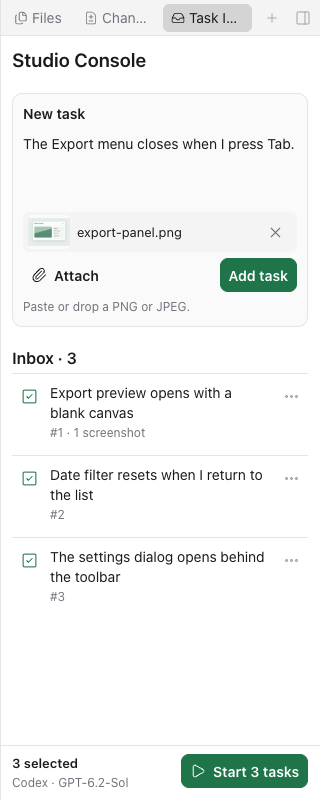
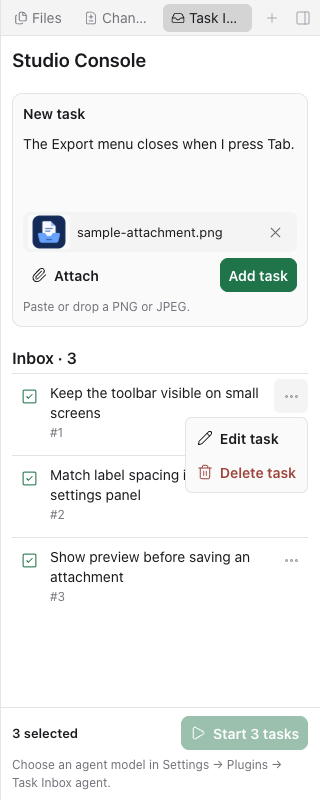
Prepare Paseo Task Inbox 1.0.1

diff --git a/README.md b/README.md
@@ -4,7 +4,7 @@
 
 Capture bugs and screenshots while you test in Paseo. Start a batch from the workspace’s right-side Explorer and Task Inbox opens a Codex or Claude Code chat to work on it. Keep capturing bugs while the agent works, and find verified fixes with links to their pull requests.
 
-![The Task Inbox composer with a screenshot attached, three waiting tasks and the batch footer](assets/task-inbox.png)
+![Task Inbox in Explorer with a screenshot attached to the draft and a floating Edit task and Delete task menu](assets/task-inbox.png)
 
 ## Get started
 
@@ -14,7 +14,7 @@ For dispatch and verification, use a workspace with a GitHub `origin`, Codex or 
 
 In Paseo, select that host and turn on **Enable plugins** under **Settings → Plugins**. Paseo plugins are trusted code and run with the daemon user's file and process access. [Paseo plugin setup](https://paseo.sh/docs/plugins)
 
-In 1.0.0 you can edit or delete waiting tasks and, on Desktop and web, attach screenshots before submitting. If the catalog still offers 0.2.0, use the versioned npm command below to install 1.0.0. On 0.2.0, save the task first, then choose **Attach screenshot**. [Version 0.2.0 instructions](https://github.com/kelvicthrust/paseo-task-inbox/blob/v0.2.0/README.md#capture-and-send-bugs)
+Starting in 1.0.0, you can edit or delete waiting tasks and, on Desktop and web, attach screenshots before submitting. If the catalog still offers 0.2.0, use the versioned npm command below to install 1.0.1. On 0.2.0, save the task first, then choose **Attach screenshot**. [Version 0.2.0 instructions](https://github.com/kelvicthrust/paseo-task-inbox/blob/v0.2.0/README.md#capture-and-send-bugs)
 
 ### Install from the Paseo catalog
 
@@ -31,7 +31,7 @@ In the app, enter `kelvicthrust/task-inbox` as the source under **Settings → P
 Use a versioned npm source to test a particular release directly.
 
 ```sh
-paseo plugin install 'npm:@kelvicthrust/paseo-task-inbox@1.0.0'
+paseo plugin install 'npm:@kelvicthrust/paseo-task-inbox@1.0.1'
 ```
 
 ### Install from source

diff --git a/docs/releases/v1.0.1.md b/docs/releases/v1.0.1.md
@@ -1,0 +1,3 @@
+# What's new in v1.0.1
+
+The **Edit task** and **Delete task** menu now floats beside the task’s ellipsis in Explorer, so opening it keeps the inbox rows in place. The menu opens above the ellipsis when space below is limited.
